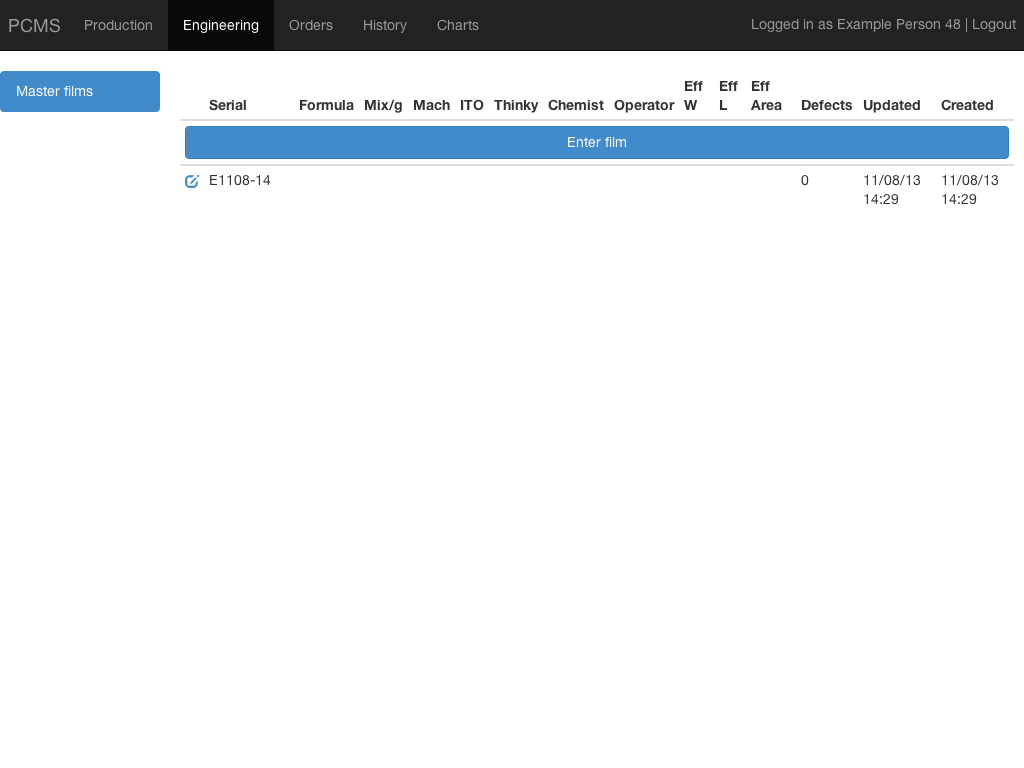
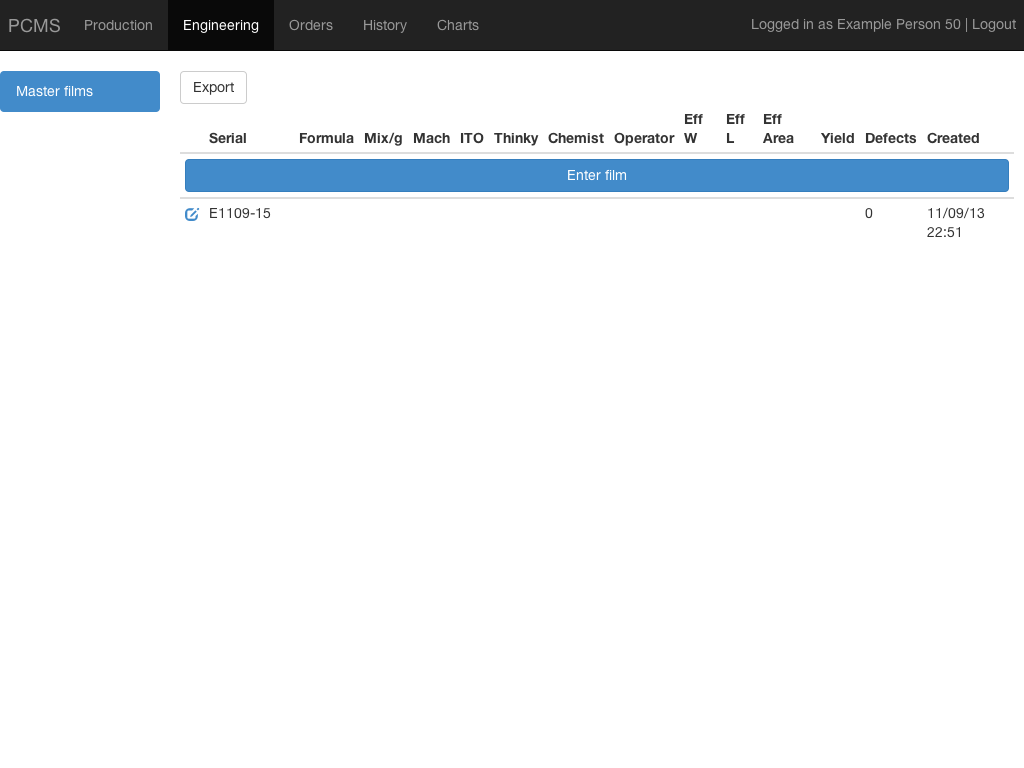
add export button to master films index

Changed region(s): [[0.1562, 0.0938, 1.0, 0.3125]]

diff --git a/app/models/master_film.rb b/app/models/master_film.rb
@@ -24,7 +24,7 @@ class MasterFilm < ActiveRecord::Base
   end
 
   def yield
-    ((effective_area/mix_mass)/machine.yield_constant).round(2) if effective_area && mix_mass && machine
+    (100*(effective_area/mix_mass)/machine.yield_constant).round(2) if effective_area && mix_mass && machine
   end
 
   def laminated_at
@@ -36,5 +36,16 @@ class MasterFilm < ActiveRecord::Base
 
   def defect_count
     defects.sum(:count)
+  end
+
+  def self.to_csv(options = {})
+    CSV.generate(options) do |csv|
+      csv << %w(Serial Formula Mix/g Machine ITO Thinky Chemist Operator EffW EffL Area Yield Defects)
+      all.each do |mf|
+        csv << [mf.serial, mf.formula, mf.mix_mass, mf.machine_code, mf.film_code, 
+                mf.thinky_code, mf.chemist, mf.operator, mf.effective_width, 
+                mf.effective_length, mf.effective_area, mf.yield, mf.defect_count] 
+      end
+    end
   end
 end

diff --git a/test/models/master_film_test.rb b/test/models/master_film_test.rb
@@ -103,7 +103,7 @@ describe MasterFilm do
     master_film.effective_length = 60
     master_film.mix_mass = 100
     master_film.machine = FactoryGirl.create(:machine, yield_constant: 0.5)
-    master_film.yield.must_equal 0.5
+    master_film.yield.must_equal 50.00
   end
 
   it "has nil yield given nil attributes" do

diff --git a/app/controllers/master_films_controller.rb b/app/controllers/master_films_controller.rb
@@ -13,6 +13,10 @@ class MasterFilmsController < ApplicationController
 
   def index
     @master_films = MasterFilm.active.by_serial.page(params[:page])
+    respond_to do |format|
+      format.html
+      format.csv { send_data @master_films.to_csv }
+    end
   end
 
   def edit
